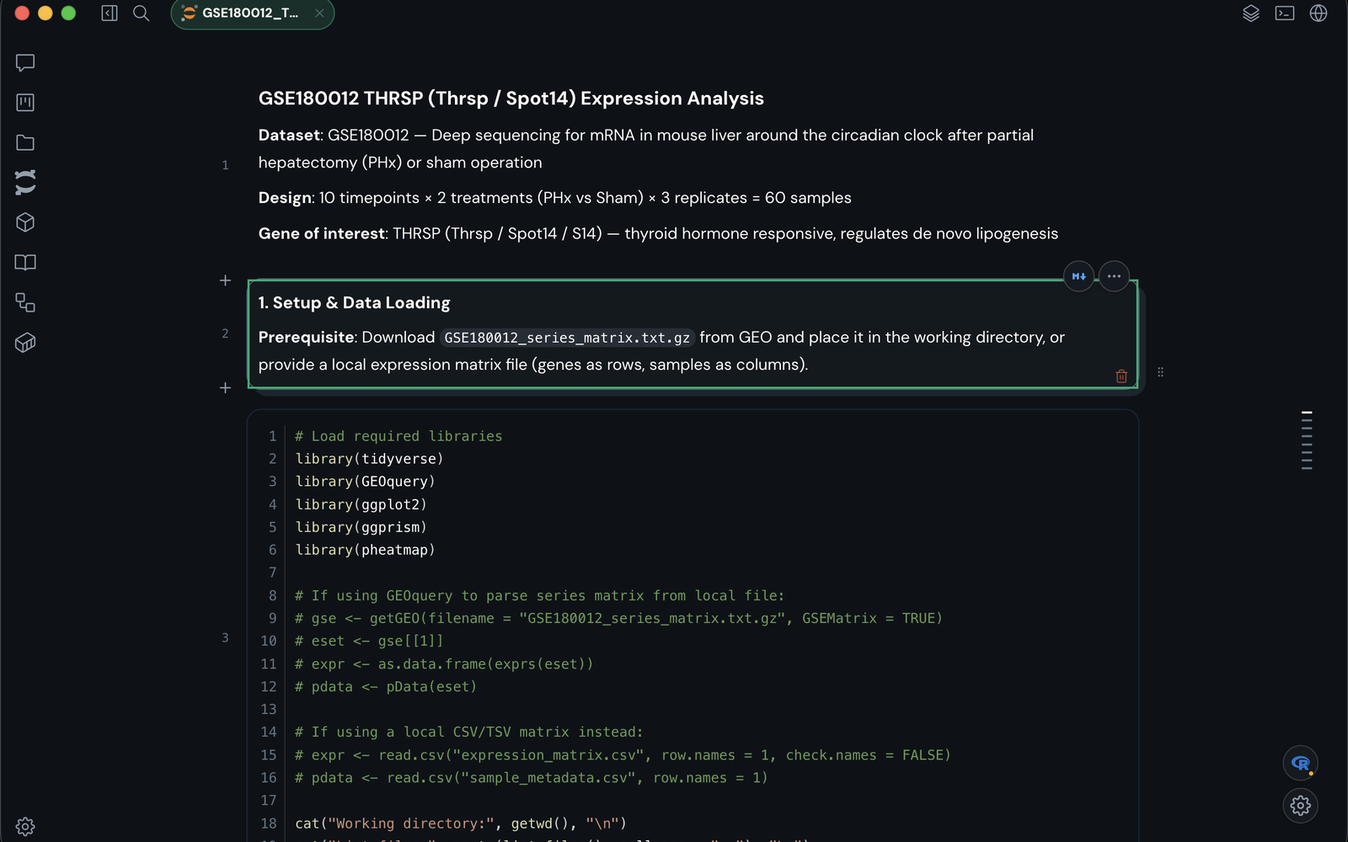
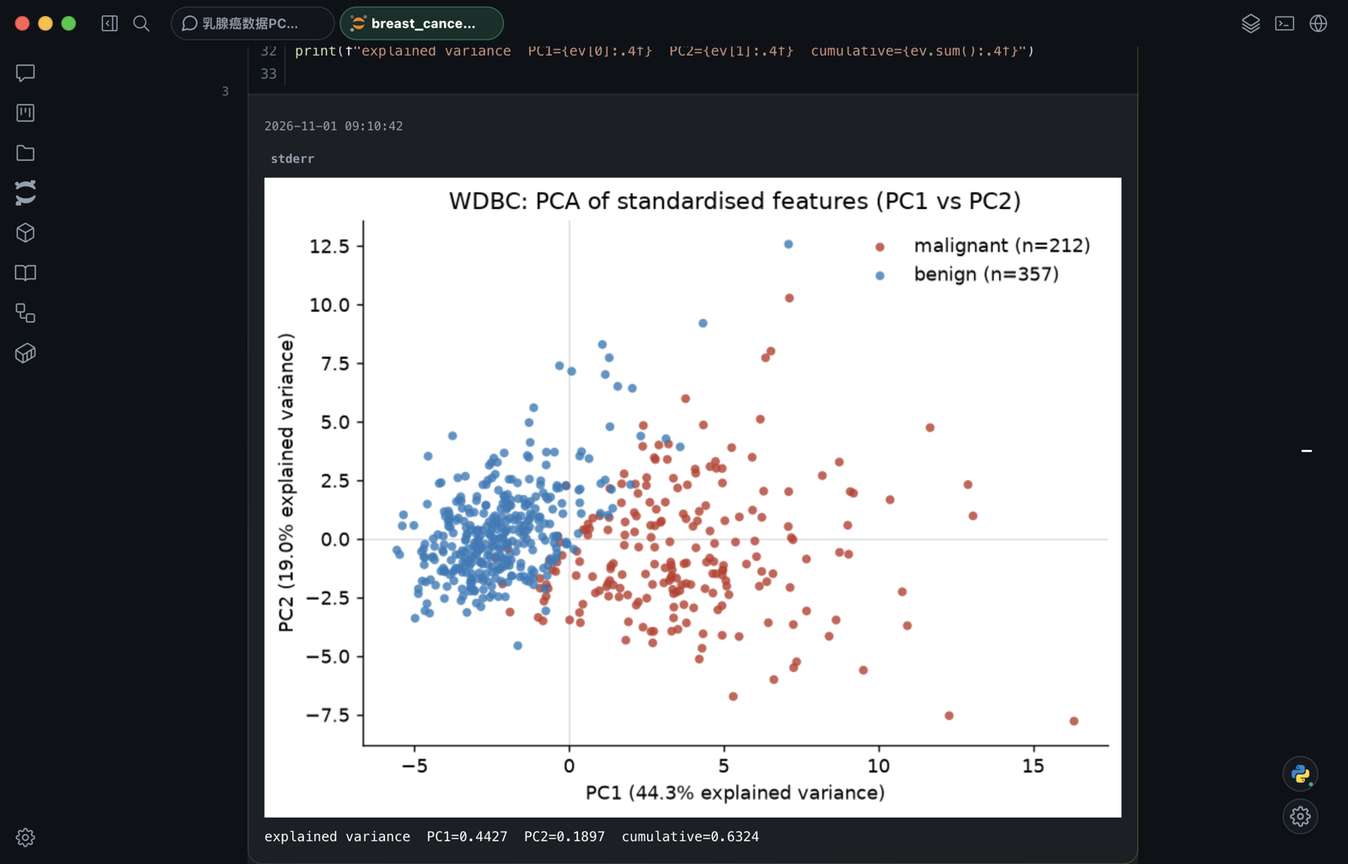
docs: Rewrite the README around what Phi demonstrably does
The English and Chinese versions now cover the same content and lead with a
real run. Images are captured from the current build on the scikit-learn
breast cancer dataset, and the captions state their source and the one manual
edit. Commands and availability notes match the current scripts and releases.

diff --git a/README.md b/README.md
@@ -1,15 +1,12 @@
 <div align="center">
   <img src="build/icon.png" alt="Phi app icon" width="104" />
   <h1>Phi</h1>
-  <p><strong>A local-first AI workbench for scientific work.</strong></p>
-  <p>Move from a research question to code, a notebook, a reproducible run, and an inspectable result—without losing the project that connects them.</p>
-  <p>Managed environments · AI with Jupyter kernels · Specialist plugins · Reproducible pipelines</p>
+  <p><strong>A desktop AI workbench for scientific research.</strong></p>
   <p><strong>English</strong> · <a href="README.zh-CN.md">简体中文</a></p>
   <p>
     <a href="https://phi.omicsagent.cn/">Website</a> ·
     <a href="https://phi.omicsagent.cn/docs">Documentation</a> ·
-    <a href="https://phi.omicsagent.cn/docs/quickstart">Quick start</a> ·
-    <a href="https://github.com/dxsbiocc/phi/releases">Releases</a> ·
+    <a href="https://github.com/dxsbiocc/phi-packages">Packages</a> ·
     <a href="https://github.com/dxsbiocc/phi/issues">Issues</a>
   </p>
   <p>
@@ -18,94 +15,82 @@
   </p>
 </div>
 
-Phi is for researchers whose work does not end with an answer in a chat window. A useful result may need project files, a Python or R notebook, a specialist tool, an external data source, or a Nextflow run on a server. Phi keeps those pieces in one desktop workspace, with visible permissions and durable local history.
+Phi connects an AI agent to the tools research work runs on: project files, Jupyter notebooks, managed Python and R environments, command-line pipelines, and remote servers. You ask for an analysis; the agent writes and runs it in your project, and the code and results stay there as ordinary files.
+
+## See it work
+
+The agent was asked to run a PCA on the Wisconsin Diagnostic Breast Cancer dataset bundled with scikit-learn. It wrote the notebook cells, ran them on Phi's managed Python kernel, and saved the notebook with its outputs.
 
 <picture>
   <source media="(prefers-color-scheme: dark)" srcset="assets/readme/notebook-dark.png">
   <source media="(prefers-color-scheme: light)" srcset="assets/readme/notebook-light.png">
-  <img alt="Phi notebook workspace showing a research analysis in progress" src="assets/readme/notebook-light.png" width="100%">
+  <img alt="A Phi notebook showing an executed PCA cell with its scatter plot of benign and malignant samples" src="assets/readme/notebook-light.png" width="100%">
 </picture>
 
-<sub>Notebook workspace in the Phi desktop beta, shown in your GitHub theme with demonstration data.</sub>
+The conversation then lists what it produced, and each file opens in place. The Chinese line and tab title below are as the app produced them in this run.
 
-## What makes Phi different
+<picture>
+  <source media="(prefers-color-scheme: dark)" srcset="assets/readme/delivery-en-dark.png">
+  <source media="(prefers-color-scheme: light)" srcset="assets/readme/delivery-en-light.png">
+  <img alt="A Phi conversation ending with the PCA plot and cards for the delivered notebook and image" src="assets/readme/delivery-en-light.png" width="100%">
+</picture>
 
-### Environments follow the task
+<sub>Captures from the Phi 0.1.0 desktop app, resized but otherwise unedited, with the model set to DeepSeek V4 Flash.</sub>
 
-Phi prepares versioned, managed Python, R, Jupyter, and Nextflow environments when work needs them. Executable Skills, specialist agents, notebook kernels, and Wrappers use declared runtimes instead of depending on an accidental collection of host packages. A ready environment can be reused; the Runtime panel shows its state and offers repair and cleanup. The first build may download dependencies, and host services such as Slurm remain separately managed.
+## What Phi does
 
-### The agent can work with a Jupyter kernel
+- **Notebooks the agent can operate.** The agent reads a `.ipynb`, inserts and edits cells, runs them through Jupyter, checks the outputs, and saves. You see the same cells in the editor. Python and R kernels are managed by Phi; a host kernel must be selected explicitly.
+- **Managed environments.** Versioned Python, R, Jupyter, and Nextflow environments are built on demand, so work does not depend on what the host has installed. Settings can rebuild, remove, or clean them. The first build downloads packages.
+- **Conversations with explicit control.** Each conversation can be bound to a project and uses a mode: Auto, Ask, Plan, Plan and execute, or Full access. Plan modes wait for your approval before acting. Conversations keep running in the background when you switch away, and can be forked from an earlier message.
+- **Plugins, Skills, connectors, and Wrappers.** A plugin bundles a specialist agent with its Skills and environment. Skills give task guidance, MCP connectors reach external services, and Wrappers describe reproducible command-line tools and pipelines. The official [Phi Packages](https://github.com/dxsbiocc/phi-packages) catalog supplies installable content.
+- **Remote projects over SSH.** Files and commands in a remote project run on the host you selected and never fall back to the desktop. Wrappers can submit to Slurm. Check each host before relying on it.
+- **A workbench around the conversation.** A terminal, in-app browser, file previews, and a background-jobs panel sit beside the conversation.
 
-The agent can read a `.ipynb` notebook, insert or revise a code or Markdown cell, run a code cell through Jupyter, inspect its execution status and output summary, and save the notebook. You see the same cells and results in the editor, with write and run actions subject to Phi's approval controls. Phi offers managed Python and R kernels; Python is the default, while a host kernel requires explicit selection.
+### Figures you can keep editing
 
-### Plugins bring a specialist and its tools together
+The Visualization plugin picks a template from the catalog, writes an editable `plot.R` into your project, and renders it in the managed R environment. This heatmap came from that flow.
 
-A Phi plugin can bundle a focused agent, its Skills, callable script tools, and an environment binding. This makes the specialist's actual capabilities visible in the app and keeps its work connected to the main conversation. The official package catalog supplies installable plugins and other research resources.
+<p align="center"><img src="assets/readme/visualization-heatmap.png" alt="Clustered heatmap of ten mean nuclear features across twenty samples, annotated by diagnosis" width="72%"></p>
 
-### Scientific figures, with editable sources
+<sub>Twenty samples (ten benign, ten malignant) from the same scikit-learn dataset, chosen to demonstrate the plot rather than to support a finding. The legend title was shortened by hand in `plot.R` and the figure re-rendered.</sub>
 
-The **Visualization** plugin is a concrete example. Its specialist uses the `omics-visualization` Skill to shortlist real templates against a result table, show previews before a choice, prepare an editable project-local `plot.R`, and render PNG, PDF, or SVG with the shared managed R environment. It can revise an existing figure and is instructed to inspect the result for clipped labels, missing legends, and misleading encodings. [Explore the plugin](https://phi.omicsagent.cn/plugins).
+## Your data
 
-<p align="center"><img src="assets/readme/visualization-template.png" alt="Clustered heatmap template supplied with the Visualization plugin" width="72%"></p>
+Settings, conversations, approvals, logs, and package state live in `~/.phi`. Project files stay in the folder you chose, and Phi does not store its application data there.
 
-<sub>An actual bundled heatmap template preview, not a plot of user data. As a scientific figure, its white canvas is intentional in both GitHub themes.</sub>
+Phi is not offline. Model requests go to the provider you configure, and an enabled connector may contact its service. Exported sessions can contain tool output and sensitive conversation content, so handle them as private data.
 
-## From question to result
+## Availability
 
-1. **Choose the workspace.** Start an ordinary conversation or bind a conversation to a local or SSH project. Project files remain where they belong.
-2. **Work with an agent.** Select a model, add relevant Skills or agents, and review tool actions under the project's permission mode. A plan can be reviewed before execution.
-3. **Use the right surface.** Explore in a notebook, inspect files and results, or choose a packaged Wrapper when the task calls for a repeatable pipeline.
-4. **Pick up where you left off.** Conversations, run history, approvals, and background tasks stay connected even as you move between projects and panels.
+Phi is an **internal beta**. macOS on Apple Silicon is the primary target. Linux x64 packaging is configured but has not passed clean-machine acceptance, and Windows is not validated. Updates are manual: Settings → General → Check for updates tells you when a newer release exists.
 
-### Reproducible workflows instead of one-off commands
+Builds are not yet signed or notarized. Preview builds, when published, appear on the [Releases](https://github.com/dxsbiocc/phi/releases) page; none is available yet, so for now build from source. Upgrades keep your data in `~/.phi`.
 
-Wrappers package known tools and workflows behind discoverable inputs and run plans. Phi can prepare a run, show its status and logs, and help inspect resulting files. Remote execution includes configured SSH and Slurm paths, with host-specific validation still required before relying on a particular cluster.
+- **macOS** (`.dmg`, `.zip`): drag Phi to Applications. macOS blocks the first launch with "Apple could not verify Phi". Open **System Settings → Privacy & Security** and click **Open Anyway**; you do this once per installed version.
+- **Linux** (`.AppImage`, `.deb`): run `sudo apt install ./phi_*.deb`, or `chmod +x Phi-*.AppImage` and run the AppImage.
 
-The [interface gallery](https://phi.omicsagent.cn/#ui-shots) shows the Wrapper catalog and other desktop views.
+## Build from source
 
-### Connected research resources
-
-Skills provide task guidance, MCP connectors reach external services, and Wrappers define reproducible command-line work. The official [Phi Packages](https://github.com/dxsbiocc/phi-packages) catalog supplies installable domain content. Phi shows resource scope and availability so you can see what is configured before asking the agent to use it.
-
-See [plugin and connector previews](https://phi.omicsagent.cn/#ui-shots) on the product site.
-
-The surrounding workbench includes a terminal, an in-app browser, file previews, and a background-task panel. You can keep a conversation open while inspecting a result or following a longer run.
-
-## Local-first, with explicit boundaries
-
-Phi stores its settings, conversations, approvals, logs, and package state under `~/.phi`. It does not turn a selected project into an application data directory. Local project files stay in the selected folder; remote project file and command operations target the selected SSH host rather than silently falling back to the desktop.
-
-Local-first does not mean offline inference: model requests go to the provider you configure, and an enabled connector may contact its service. Project actions remain subject to the permission controls shown in Phi. Exported sessions can include tool output and sensitive conversation content, so handle them as private data.
-
-## Get started
-
-For a desktop build, use the official [installation guide](https://phi.omicsagent.cn/docs/install) and [quick-start guide](https://phi.omicsagent.cn/docs/quickstart). The [product documentation](https://phi.omicsagent.cn/docs) also covers Skills, MCP connectors, Wrappers, and common questions.
-
-To run this repository from source, use **Bun 1.3.14+**. The test runner needs **Node.js 22.15+ or 24+**. The first launch may fetch pinned runtime assets.
+You need [Bun](https://bun.sh) 1.3.14 or later. The first launch fetches pinned runtime assets.
 
 ```bash
 bun install
 bun run dev
 ```
 
-After launch, configure a model provider in Settings and choose a project. To verify a source checkout before packaging:
+Configure a model provider in Settings, then choose a project.
+
+To check a source checkout the way CI does, also install Node.js 24:
 
 ```bash
-bun run test
+bun run helper:fetch-go && bun run build:helper
 bun run lint
 bun run typecheck
-bun run build
+bun run test:gate
 ```
 
-## Availability
+`bun run build:mac` and `bun run build:linux` produce packages. Maintainers publish releases from a `v*` tag; see [release-signing-update.md](docs/roadmap/release-signing-update.md).
 
-Phi is an **internal beta**. It is not yet a signed, notarized public desktop release. macOS is the primary development target; Linux x64 packaging is configured but still needs clean-machine acceptance, and Windows distribution is not yet validated. Remote SSH, Jupyter, and Slurm workflows need real-host validation for each environment. Updates are manual during the beta.
+## License
 
-Preview builds, when published, are on the [latest release](https://github.com/dxsbiocc/phi/releases/latest) page: macOS Apple Silicon (`.dmg`, `.zip`) and Linux x64 (`.AppImage`, `.deb`). Settings and conversations in `~/.phi` are kept when you install a newer version, and Settings → General → 检查更新 tells you when a newer release exists.
-
-- **macOS**: open the `.dmg` and drag Phi to Applications. Preview builds are not yet notarized, so macOS blocks the first launch with "Apple could not verify Phi". Open **System Settings → Privacy & Security**, click **Open Anyway** next to the Phi message, and confirm; you do this once per installed version. Alternatively run `xattr -dr com.apple.quarantine /Applications/Phi.app`.
-- **Linux**: install the `.deb` with `sudo apt install ./phi_*.deb`, or make the AppImage executable (`chmod +x Phi-*.AppImage`) and run it.
-
-Maintainers build releases from a `v*` tag; packaging and signing are described in [release-signing-update.md](docs/roadmap/release-signing-update.md).
-
-The source is licensed under [MIT](LICENSE). Third-party attributions are in [THIRD_PARTY_NOTICES.md](THIRD_PARTY_NOTICES.md). Feature requests and bug reports belong in [GitHub Issues](https://github.com/dxsbiocc/phi/issues).
+The source is licensed under [MIT](LICENSE). Third-party attributions are in [THIRD_PARTY_NOTICES.md](THIRD_PARTY_NOTICES.md). Report bugs and request features in [GitHub Issues](https://github.com/dxsbiocc/phi/issues).

diff --git a/README.zh-CN.md b/README.zh-CN.md
@@ -1,15 +1,12 @@
 <div align="center">
   <img src="build/icon.png" alt="Phi 应用图标" width="104" />
   <h1>Phi</h1>
-  <p><strong>面向科研工作的本地优先 AI 工作台。</strong></p>
-  <p>从研究问题走向代码、Notebook、可复现的运行和可检查的结果，同时保留贯穿全程的项目上下文。</p>
-  <p>自动环境管理 · AI 与 Jupyter 内核协作 · 专家插件 · 可复现流程</p>
+  <p><strong>面向科研工作的桌面 AI 工作台。</strong></p>
   <p><a href="README.md">English</a> · <strong>简体中文</strong></p>
   <p>
     <a href="https://phi.omicsagent.cn/">官网</a> ·
     <a href="https://phi.omicsagent.cn/docs">产品文档</a> ·
-    <a href="https://phi.omicsagent.cn/docs/quickstart">快速开始</a> ·
-    <a href="https://github.com/dxsbiocc/phi/releases">版本发布</a> ·
+    <a href="https://github.com/dxsbiocc/phi-packages">资源包</a> ·
     <a href="https://github.com/dxsbiocc/phi/issues">问题反馈</a>
   </p>
   <p>
@@ -18,87 +15,82 @@
   </p>
 </div>
 
-Phi 面向那些工作不会止于一条聊天回复的研究者。一个可靠的结果可能需要项目文件、Python 或 R Notebook、专业工具、外部数据源，也可能需要在服务器上运行 Nextflow。Phi 将这些环节放在同一个桌面工作区，并让权限和本地历史保持可见。
+Phi 把 AI Agent 接到科研工作实际使用的工具上：项目文件、Jupyter Notebook、受管的 Python 和 R 环境、命令行流程，以及远程服务器。你提出分析需求，Agent 在你的项目里写代码并运行，代码和结果都以普通文件的形式留在项目中。
+
+## 实际效果
+
+我们让 Agent 对 scikit-learn 自带的 Wisconsin 乳腺癌诊断数据集做 PCA。它写好 Notebook 单元，在 Phi 受管的 Python 内核上运行，并连同输出一起保存。
 
 <picture>
   <source media="(prefers-color-scheme: dark)" srcset="assets/readme/notebook-dark.png">
   <source media="(prefers-color-scheme: light)" srcset="assets/readme/notebook-light.png">
-  <img alt="Phi Notebook 工作区中的科研分析" src="assets/readme/notebook-light.png" width="100%">
+  <img alt="Phi Notebook 中已运行的 PCA 单元，输出良性与恶性样本的散点图" src="assets/readme/notebook-light.png" width="100%">
 </picture>
 
-<sub>Phi 桌面内测版的 Notebook 工作区。截图使用演示数据，并随 GitHub 主题切换。</sub>
+对话随后列出这次产出的文件，点击即可打开。
 
-## Phi 的特色
+<picture>
+  <source media="(prefers-color-scheme: dark)" srcset="assets/readme/delivery-zh-dark.png">
+  <source media="(prefers-color-scheme: light)" srcset="assets/readme/delivery-zh-light.png">
+  <img alt="Phi 对话末尾显示 PCA 图以及 Notebook 和图片两个交付文件卡片" src="assets/readme/delivery-zh-light.png" width="100%">
+</picture>
 
-### 环境随任务自动准备
+<sub>均为 Phi 0.1.0 桌面应用的截图，只缩放了尺寸，未作其他修改；模型为 DeepSeek V4 Flash。</sub>
 
-Phi 会在需要时准备有版本记录的受管 Python、R、Jupyter 和 Nextflow 环境。可执行 Skill、专家 Agent、Notebook 内核与 Wrapper 使用声明好的运行环境，不必碰运气依赖宿主机装过哪些包。已就绪的环境可以复用；运行时面板显示状态，并提供修复和清理入口。首次构建可能下载依赖，Slurm 等主机服务仍需单独管理。
+## Phi 能做什么
 
-### Agent 能直接与 Jupyter 内核协作
+- **Agent 能直接操作 Notebook。** Agent 可以读取 `.ipynb`，插入和修改单元，通过 Jupyter 运行，检查输出并保存。你在编辑器里看到的是同一批单元。Python 和 R 内核由 Phi 管理；使用宿主机内核需要显式选择。
+- **受管环境。** 有版本记录的 Python、R、Jupyter 和 Nextflow 环境按需构建，工作不依赖宿主机装了什么。可以在设置中重建、删除或清理。首次构建需要下载软件包。
+- **对话过程可控。** 每个对话都可以绑定项目，并使用一种模式：自动、询问、计划、规划并执行或完全访问。计划类模式会等你批准后才行动。切换到别处时，对话会在后台继续运行；也可以从之前的某条消息分叉。
+- **插件、Skills、连接器和 Wrapper。** 插件把专家 Agent 与它的 Skills 和环境打包在一起。Skills 提供任务指导，MCP 连接器访问外部服务，Wrapper 描述可复现的命令行工具和流程。官方 [Phi Packages](https://github.com/dxsbiocc/phi-packages) 目录提供可安装的内容。
+- **通过 SSH 使用远程项目。** 远程项目的文件和命令都在你选定的主机上执行，不会回退到桌面端。Wrapper 可以提交到 Slurm。在依赖某台主机之前，请先做实际验证。
+- **围绕对话的工作台。** 终端、内置浏览器、文件预览和后台任务面板都在对话旁边。
 
-Agent 可以读取 `.ipynb`、插入或修改代码与 Markdown 单元，通过 Jupyter 运行代码单元，取得执行状态和输出摘要，再保存 Notebook。你在编辑器里看到的是同一批单元和结果；写入与运行仍遵循 Phi 的审批设置。Phi 提供受管 Python 与 R 内核，其中 Python 是默认选择；使用宿主机内核需要显式指定。
+### 可以继续修改的图表
 
-### 插件把专家和工具带到一起
+Visualization（科研绘图）插件从目录中选择模板，把可编辑的 `plot.R` 写入项目，再用受管 R 环境渲染。下面这张热图就来自这个流程。
 
-一个 Phi 插件可以同时包含专门的 Agent、Skills、可调用的脚本工具和环境绑定。应用会展示这些实际能力与状态，专家完成的工作也留在主对话的上下文中。官方包目录提供可安装的插件及其他科研资源。
+<p align="center"><img src="assets/readme/visualization-heatmap.png" alt="二十个样本十项细胞核均值特征的聚类热图，按诊断结果标注" width="72%"></p>
 
-### 科研绘图留下可编辑的源文件
+<sub>数据是同一个 scikit-learn 数据集中的二十个样本（良性、恶性各十个），只用于演示绘图，不支持任何研究结论。图例标题是之后在 `plot.R` 中手动缩短并重新渲染的。</sub>
 
-**Visualization（科研绘图）**插件就是一个实例。专属专家使用 `omics-visualization` Skill，根据结果表筛选真实模板，先展示预览供选择，再在项目内准备可编辑的 `plot.R`，通过共享的受管 R 环境输出 PNG、PDF 或 SVG。它也能修改已有图，并按要求检查标签裁切、图例缺失和可能误导读者的编码。[了解绘图插件](https://phi.omicsagent.cn/plugins)。
+## 你的数据
 
-<p align="center"><img src="assets/readme/visualization-template.png" alt="科研绘图插件内置的聚类热图模板预览" width="72%"></p>
+设置、对话、审批、日志和包状态都存放在 `~/.phi`。项目文件留在你选定的文件夹里，Phi 不会把应用数据存到那里。
 
-<sub>这是插件自带的真实热图模板预览，不是用户数据的分析结果。作为科研图表，其白色画布在 GitHub 亮暗主题中保持一致。</sub>
+Phi 并非离线运行。模型请求会发往你配置的提供方，已启用的连接器也可能访问对应服务。导出的会话可能包含工具输出和敏感对话内容，请作为私有数据保管。
 
-## 从问题到结果
+## 可用状态
 
-1. **选择工作范围。** 开始普通对话，或把对话绑定到本地／SSH 项目。项目文件保留在原来的位置。
-2. **与 Agent 协作。** 选择模型、引用相关 Skill 或专家 Agent，并按项目权限模式审查工具操作。需要时可先审阅计划，再开始执行。
-3. **选择合适的工作界面。** 在 Notebook 中探索、在文件预览中检查结果，或使用打包好的 Wrapper 执行可重复的流程。
-4. **随时接着做。** 切换项目或侧边面板后，对话、运行历史、审批和后台任务仍与原工作保持关联。
+Phi 目前是**内部测试版**。主要目标平台是 Apple Silicon 上的 macOS。Linux x64 已有打包配置，但尚未通过干净环境验收；Windows 尚未验证。更新需手动完成：在“设置 → 通用 → 检查更新”中可以查看是否有新版本。
 
-### 用可复现的流程代替临时命令
+安装包目前没有签名和公证。预览版发布后会出现在 [Releases](https://github.com/dxsbiocc/phi/releases) 页面；现在还没有可下载的版本，请先从源码构建。升级时 `~/.phi` 中的数据会保留。
 
-Wrapper 将常用工具和工作流组织成可发现的输入与运行计划。Phi 可以准备运行、显示状态与日志，并帮助检查结果文件。远程执行支持已配置的 SSH 与 Slurm 路径；在具体集群上使用前，仍需完成对应主机的验证。
+- **macOS**（`.dmg`、`.zip`）：把 Phi 拖到“应用程序”。首次启动时 macOS 会提示无法验证 Phi，请打开“系统设置 → 隐私与安全性”，点击“仍要打开”；每个安装版本只需操作一次。
+- **Linux**（`.AppImage`、`.deb`）：运行 `sudo apt install ./phi_*.deb`，或执行 `chmod +x Phi-*.AppImage` 后运行 AppImage。
 
-在官网的[界面图库](https://phi.omicsagent.cn/#ui-shots)可以查看 Wrapper 目录及更多桌面界面。
+## 从源码构建
 
-### 连接科研资源
-
-Skills 提供任务指导，MCP Connectors 连接外部服务，Wrappers 定义可复现的命令行运行。官方 [Phi Packages](https://github.com/dxsbiocc/phi-packages) 目录提供可安装的领域内容。Phi 会展示资源的范围和可用状态，让你在请 Agent 调用之前就知道当前配置了什么。
-
-插件与连接器的界面预览也在[官网图库](https://phi.omicsagent.cn/#ui-shots)中。
-
-围绕对话的工作台还提供终端、内置浏览器、文件预览和后台任务面板。查看结果或跟进长时间运行时，不必离开当前对话。
-
-## 本地优先，边界清晰
-
-Phi 将设置、对话、审批、日志和包状态存放在 `~/.phi`。选定的项目不会变成应用数据目录：本地项目文件仍位于原文件夹，远程项目的文件和命令操作指向选定的 SSH 主机，不会静默回退到桌面端。
-
-本地优先不等于离线推理：模型请求会发往你配置的提供方，已启用的连接器也可能访问对应服务。项目操作遵循 Phi 中显示的权限设置。导出的会话可能包含工具输出和敏感对话内容，应作为私有数据保管。
-
-## 开始使用
-
-获取桌面版请查看官网的[安装指南](https://phi.omicsagent.cn/docs/install)和[快速开始](https://phi.omicsagent.cn/docs/quickstart)。[产品文档](https://phi.omicsagent.cn/docs)还介绍了 Skills、MCP 连接器、Wrappers 和常见问题。
-
-从源码运行需要 **Bun 1.3.14+**；运行测试需要 **Node.js 22.15+ 或 24+**。首次启动时可能下载固定版本的运行时资源。
+需要 [Bun](https://bun.sh) 1.3.14 或更高版本。首次启动时会下载固定版本的运行时资源。
 
 ```bash
 bun install
 bun run dev
 ```
 
-启动后在设置中配置模型提供方，再选择项目。打包前可检查源码：
+先在设置中配置模型提供方，再选择项目。
+
+如果要按 CI 的方式检查源码，还需要安装 Node.js 24：
 
 ```bash
-bun run test
+bun run helper:fetch-go && bun run build:helper
 bun run lint
 bun run typecheck
-bun run build
+bun run test:gate
 ```
 
-## 可用状态
+`bun run build:mac` 和 `bun run build:linux` 用于打包。维护者通过 `v*` 标签发布版本，详见 [release-signing-update.md](docs/roadmap/release-signing-update.md)。
 
-Phi 目前是**内部测试版**，还不是经过签名、公证的公开桌面发行版。macOS 是主要开发目标；Linux x64 已有打包配置，但仍需干净环境验收；Windows 分发尚未验证。远程 SSH、Jupyter 和 Slurm 工作流需要针对具体环境完成真实主机验证。内测期间更新需手动完成。
+## 许可证
 
-源码采用 [MIT 许可证](LICENSE)。第三方来源说明见 [THIRD_PARTY_NOTICES.md](THIRD_PARTY_NOTICES.md)。功能建议与错误反馈请提交到 [GitHub Issues](https://github.com/dxsbiocc/phi/issues)。
+源码采用 [MIT 许可证](LICENSE)。第三方来源说明见 [THIRD_PARTY_NOTICES.md](THIRD_PARTY_NOTICES.md)。错误反馈和功能建议请提交到 [GitHub Issues](https://github.com/dxsbiocc/phi/issues)。
